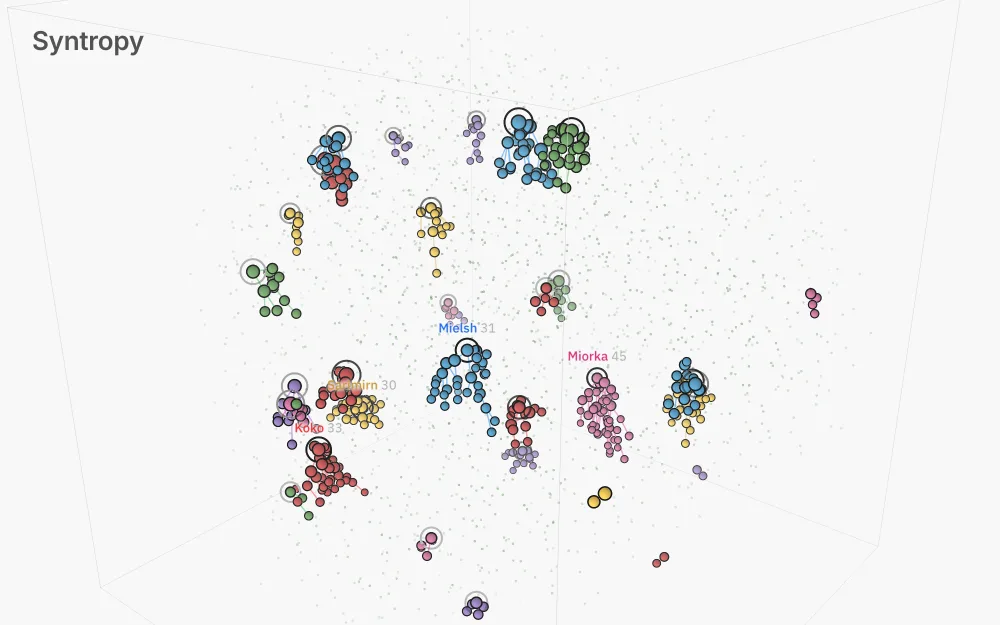
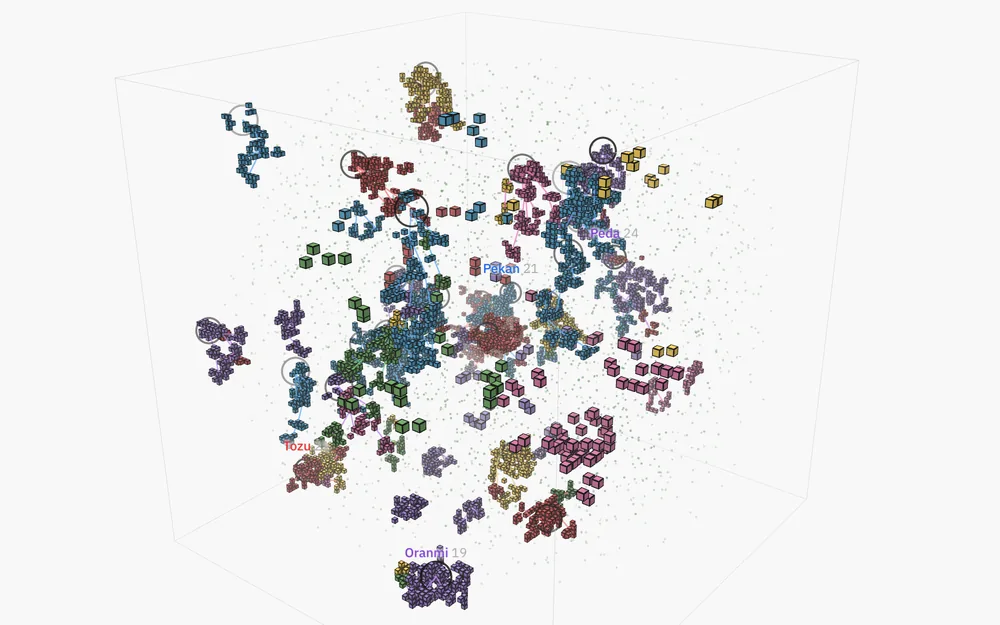
Update the Syntropy card for the continuous world and the paper

diff --git a/src/components/Projects/Projects.js b/src/components/Projects/Projects.js
@@ -107,7 +107,7 @@ function Projects() {
               imgPath={syntropy}
               type={"Github"}
               title="Syntropy"
-              description="A 3D take on Conway's Game of Life that keeps going after the cells. Coloured cells on a lattice settle into forms, the forms that hold become organisms that eat, breed and age, and the organisms sort themselves into tribes and then realms where some of them rule the others. I count a realm as a government once it outlives its ruler and keeps most of its members. The rules only cover what one organism does next to its neighbours: eat, stay near kin, take the loser of a fight as a follower, pass tribute up, rebel when your branch outgrows the rest of the realm, and accept an heir only if it's clearly stronger. Each level lights up when a measurement notices the new kind of order. Followers settle just below their lord, so every realm hangs from its ruler like an upside-down tree, with a line in the ruler's colour running up from each follower. The simulation core also runs in Node with no graphics, and a parameter sweep across worker threads tuned 32 knobs until hierarchy and government showed up in 31 of 32 worlds, half of them seeds the sweep never saw. It runs entirely in the browser with Three.js, and every world has a seed in the URL, so a link replays the same history."
+              description="A 3D take on Conway's Game of Life that keeps climbing after the cells. Coloured cells on a lattice settle into forms, and each form that holds its shape comes loose as an organism built from exactly those cells while the rest of the lattice keeps running. Organisms eat, grow, split and fight, and every few seconds each one makes the same choice: follow whoever keeps it safest after the tribute it would pay, or follow no one. Nothing in the code mentions tribes, ranks, conquest or heirs, yet all 48 seeded worlds I tested climbed from kin groups to hierarchies that rule other lineages, and then to realms that regroup under a new ruler when the old one dies. At normal speed that takes about a minute. I wrote it up as a 15-page paper with the math, the ablations and a phase diagram, and every number in it comes from experiments the repo reruns headless in Node. It runs in the browser with Three.js, every world has a seed in the URL, and you can change the look or the environment while it runs."
               ghLink="https://github.com/JoshW-dev/syntropy"
               demoLink="https://syntropy-sim.vercel.app/"
             />
